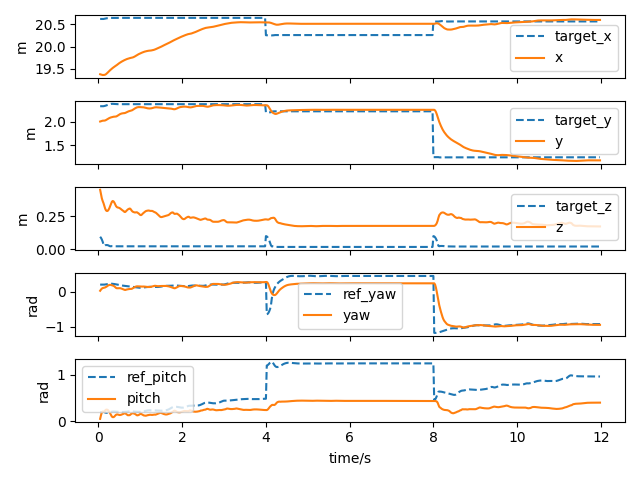
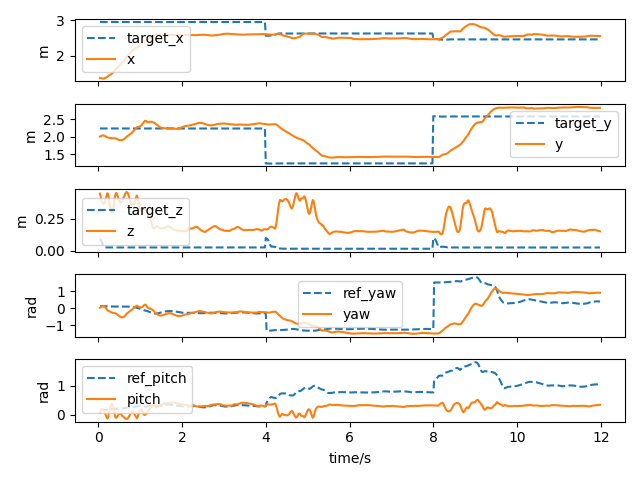
feat: try fitting real data and highlevel output

diff --git a/legged_gym/legged_gym/envs/go1g/go1gbox.py b/legged_gym/legged_gym/envs/go1g/go1gbox.py
@@ -100,7 +100,7 @@ class Go1GB(BaseTask):
         self.use_box = True
         self._parse_cfg(self.cfg)
         super().__init__(self.cfg, sim_params, physics_engine, sim_device, headless)  # calls create_sim
-        self.num_dummy_dof = cfg.env.num_dummy_dof  # used only in simulation
+        self.num_dummy_dof = cfg.env.num_dummy_dof  # 1dof in gripper
 
         self.resize_transform = torchvision.transforms.Resize((self.cfg.depth.resized[1], self.cfg.depth.resized[0]), 
                                                               interpolation=torchvision.transforms.InterpolationMode.BICUBIC)
@@ -171,7 +171,7 @@ class Go1GB(BaseTask):
         else:
             self.extras["depth"] = None
         
-        return self.lowlevel_obs_buf, self.privileged_obs_buf, self.rew_buf, self.reset_buf, self.extras
+        return self.obs_buf, self.privileged_obs_buf, self.rew_buf, self.reset_buf, self.extras
 
     def get_history_observations(self):
         return self.obs_history_buf
@@ -236,7 +236,7 @@ class Go1GB(BaseTask):
 
         norm = torch.norm(self.target_pos_rel, dim=-1, keepdim=True)
         target_vec_norm = self.target_pos_rel / (norm + 1e-5)
-        target_vec_xz_norm = torch.norm(target_vec_norm[:,[0,2]], dim=-1)  # projection on the xz plane
+        # target_vec_xz_norm = torch.norm(target_vec_norm[:,[0,2]], dim=-1)  # projection on the xz plane
         self.target_pitch = -torch.atan2(target_vec_norm[:, 2], target_vec_norm[:, 0])
         # self.target_yaw = torch.atan2(target_vec_norm[:, 1], target_vec_xz_norm) + self.cfg.asset.gripper_pitch_offset
         self.target_yaw = torch.atan2(target_vec_norm[:, 1], target_vec_norm[:, 0]) + self.cfg.asset.gripper_pitch_offset
@@ -269,11 +269,14 @@ class Go1GB(BaseTask):
         self.roll, self.pitch, self.yaw = euler_from_quaternion(self.base_quat)
         hand_pos = self.rigid_body_states[:, self.finger_indices, :3]
         self.ee_pos = (self.rigid_body_states[:, self.finger_indices[0], :3]+self.rigid_body_states[:, self.finger_indices[1], :3])/2
+        # self.ee_pos = self.rigid_body_states[:, self.grasp_point_index, :3]
 
         if verbose:
+            print(f"{self.grasp_point_index}")
             print(f"box pose:{self.box_states[:,:3]}")
             print(f"hand pose:{hand_pos}")        
             print(f"ee pose:{self.ee_pos}")        
+            print(f"ee pose0:{self.ee_pos0}")        
 
         contact = torch.norm(self.contact_forces[:, self.feet_indices], dim=-1) > 2.
         self.contact_filt = torch.logical_or(contact, self.last_contacts) 
@@ -318,7 +321,7 @@ class Go1GB(BaseTask):
         return vec[:, [1, 0, 3, 2]]
 
     def reindex(self, vec):
-        if self.num_actions==13:
+        if self.num_lowlevel_actions==13:
             return vec[:, [3, 4, 5, 0, 1, 2, 9, 10, 11, 6, 7, 8, 12]]
         else:
             return vec[:, [3, 4, 5, 0, 1, 2, 9, 10, 11, 6, 7, 8]]
@@ -423,17 +426,22 @@ class Go1GB(BaseTask):
         Computes observations
         """
         imu_obs = torch.stack((self.roll, self.pitch), dim=1)
-        if self.global_counter % 5 == 0:
-            self.delta_yaw = self.target_yaw - self.yaw
-            self.delta_pitch = self.target_pitch - self.pitch
-            self.delta_position = self.base_target_pos
-
         # if self.global_counter % 5 == 0:
-        #     self.delta_yaw = self.actions[:,0]  # self.target_yaw - self.yaw
-        #     self.delta_pitch = self.actions[:,1]  # self.target_pitch - self.pitch
-        #     self.delta_position = self.actions[:,2:5]  # self.base_target_pos
-        #     self.close_cmd = self.actions[:,-1]
+        #     self.delta_yaw = self.target_yaw - self.yaw
+        #     self.delta_pitch = self.target_pitch - self.pitch
+        #     self.delta_position = self.base_target_pos
 
+        if self.global_counter % 5 == 0:
+            self.delta_yaw = self.actions[:,0]  # self.target_yaw - self.yaw
+            self.delta_pitch = self.actions[:,1]  # self.target_pitch - self.pitch
+            self.delta_position = self.actions[:,2:5]  # self.base_target_pos
+            self.close_cmd = self.actions[:,-1]
+
+        # real_delta_yaw = self.target_yaw - self.yaw
+        # real_delta_pitch = self.target_pitch - self.pitch
+        # real_delta_position = self.base_target_pos
+        # real_delta_position[:,0] = 3.0
+            
         # replace real obs to the output of the highlevel policy
         lowlevel_obs_buf = torch.cat((#skill_vector, 
                             self.base_ang_vel  * self.obs_scales.ang_vel,   #3
@@ -441,7 +449,7 @@ class Go1GB(BaseTask):
                             self.delta_yaw[:, None],    #1
                             self.delta_pitch[:, None],   #1
                             self.delta_position,  #3 local
-                            self.commands[:,-1:],  #1
+                            self.close_cmd[:,None],  #1
                             (self.env_class != 17).float()[:, None], #1
                             (self.env_class == 17).float()[:, None], #1
                             self.reindex((self.dof_pos - self.default_dof_pos_all) * self.obs_scales.dof_pos),  #13 contain no passive dof
@@ -478,25 +486,16 @@ class Go1GB(BaseTask):
         Computes observations
         """
         imu_obs = torch.stack((self.roll, self.pitch), dim=1)
-        if self.global_counter % 5 == 0:  # = actions[:,something] wqwqwq
-            self.delta_yaw = self.target_yaw - self.yaw
-            self.delta_pitch = self.target_pitch - self.pitch
-            self.delta_position = self.base_target_pos
+        self.real_delta_yaw = self.target_yaw - self.yaw
+        self.real_delta_pitch = self.target_pitch - self.pitch
+        self.real_delta_position = self.base_target_pos
 
         # replace real obs to the output of the highlevel policy
-        obs_buf = torch.cat((#skill_vector, 
-                            self.base_ang_vel  * self.obs_scales.ang_vel,   #3
-                            imu_obs,    #2
-                            self.delta_yaw[:, None],    #1
-                            self.delta_pitch[:, None],   #1
-                            self.delta_position,  #3 local
-                            self.commands[:,-1:],  #1
-                            (self.env_class != 17).float()[:, None], #1
-                            (self.env_class == 17).float()[:, None], #1
-                            self.reindex((self.dof_pos - self.default_dof_pos_all) * self.obs_scales.dof_pos),  #13 contain no passive dof
-                            self.reindex(self.dof_vel * self.obs_scales.dof_vel),   #13
-                            self.reindex(self.lowlevel_action_history_buf[:, -1]),   #13
-                            self.reindex_feet(self.contact_filt.float()-0.5),   #4
+        obs_buf = torch.cat((
+                            self.real_delta_yaw[:, None],    #1
+                            self.real_delta_pitch[:, None],   #1
+                            self.real_delta_position,  #3 local
+                            self.action_history_buf[:, -1]  # 6
                             ),dim=-1)
         priv_explicit = torch.cat((self.base_lin_vel * self.obs_scales.lin_vel,
                                    0 * self.base_lin_vel,
@@ -811,7 +810,8 @@ class Go1GB(BaseTask):
         env_cfg.env.num_envs = self.num_envs
         env_cfg.env.create_sim = False
         self.lowlevel_obs_buf = torch.zeros(self.num_envs, env_cfg.env.num_observations, device=self.device, dtype=torch.float)
-
+        self.num_lowlevel_actions = env_cfg.env.num_actions  # 13
+        self.lowlevel_n_proprio = env_cfg.env.n_proprio
         # prepare environment
         env, _ = task_registry.make_env(name=args.task, args=args, env_cfg=env_cfg)
 
@@ -857,13 +857,13 @@ class Go1GB(BaseTask):
         self.extras = {}
         self.gravity_vec = to_torch(get_axis_params(-1., self.up_axis_idx), device=self.device).repeat((self.num_envs, 1))  # contain box
         self.forward_vec = to_torch([1., 0., 0.], device=self.device).repeat((self.num_envs, 1))
-        self.torques = torch.zeros(self.num_envs, self.num_actions+self.num_dummy_dof, dtype=torch.float, device=self.device, requires_grad=False)
-        self.p_gains = torch.zeros(self.num_actions+self.num_dummy_dof, dtype=torch.float, device=self.device, requires_grad=False)
-        self.d_gains = torch.zeros(self.num_actions+self.num_dummy_dof, dtype=torch.float, device=self.device, requires_grad=False)
+        self.torques = torch.zeros(self.num_envs, self.num_lowlevel_actions+self.num_dummy_dof, dtype=torch.float, device=self.device, requires_grad=False)
+        self.p_gains = torch.zeros(self.num_lowlevel_actions+self.num_dummy_dof, dtype=torch.float, device=self.device, requires_grad=False)
+        self.d_gains = torch.zeros(self.num_lowlevel_actions+self.num_dummy_dof, dtype=torch.float, device=self.device, requires_grad=False)
         self.actions = torch.zeros(self.num_envs, self.num_actions, dtype=torch.float, device=self.device, requires_grad=False)
-        self.lowlevel_actions = torch.zeros(self.num_envs, self.num_actions, dtype=torch.float, device=self.device, requires_grad=False)
+        self.lowlevel_actions = torch.zeros(self.num_envs, self.num_lowlevel_actions, dtype=torch.float, device=self.device, requires_grad=False)
         self.last_actions = torch.zeros(self.num_envs, self.num_actions, dtype=torch.float, device=self.device, requires_grad=False)
-        self.last_lowlevel_actions = torch.zeros(self.num_envs, self.num_actions, dtype=torch.float, device=self.device, requires_grad=False)        
+        self.last_lowlevel_actions = torch.zeros(self.num_envs, self.num_lowlevel_actions, dtype=torch.float, device=self.device, requires_grad=False)        
         self.last_dof_vel = torch.zeros_like(self.dof_vel)
         self.last_torques = torch.zeros_like(self.torques)
         self.last_root_vel = torch.zeros_like(self.root_states[:, 7:13])
@@ -871,12 +871,12 @@ class Go1GB(BaseTask):
         self.reach_goal_timer = torch.zeros(self.num_envs, dtype=torch.float, device=self.device, requires_grad=False)
 
         str_rng = self.cfg.domain_rand.motor_strength_range
-        self.motor_strength = (str_rng[1] - str_rng[0]) * torch.rand(2, self.num_envs, self.num_actions+self.num_dummy_dof, dtype=torch.float, device=self.device, requires_grad=False) + str_rng[0]
-        if self.cfg.env.history_encoding:
+        self.motor_strength = (str_rng[1] - str_rng[0]) * torch.rand(2, self.num_envs, self.num_lowlevel_actions+self.num_dummy_dof, dtype=torch.float, device=self.device, requires_grad=False) + str_rng[0]
+        if self.cfg.env.history_encoding:  
             self.obs_history_buf = torch.zeros(self.num_envs, self.cfg.env.history_len, self.cfg.env.n_proprio, device=self.device, dtype=torch.float)
-            self.lowlevel_obs_history_buf = torch.zeros(self.num_envs, self.cfg.env.history_len, self.cfg.env.n_proprio, device=self.device, dtype=torch.float)
+            self.lowlevel_obs_history_buf = torch.zeros(self.num_envs, self.cfg.env.history_len, self.lowlevel_n_proprio, device=self.device, dtype=torch.float)
         self.action_history_buf = torch.zeros(self.num_envs, self.cfg.domain_rand.action_buf_len, self.num_actions, device=self.device, dtype=torch.float)
-        self.lowlevel_action_history_buf = torch.zeros(self.num_envs, self.cfg.domain_rand.action_buf_len, self.num_actions, device=self.device, dtype=torch.float)
+        self.lowlevel_action_history_buf = torch.zeros(self.num_envs, self.cfg.domain_rand.action_buf_len, self.num_lowlevel_actions, device=self.device, dtype=torch.float)
         self.contact_buf = torch.zeros(self.num_envs, self.cfg.env.contact_buf_len, 4, device=self.device, dtype=torch.float)
 
         self.commands = torch.zeros(self.num_envs, self.cfg.commands.num_commands, dtype=torch.float, device=self.device, requires_grad=False) # x vel, y vel, yaw vel, heading
@@ -1128,6 +1128,7 @@ class Go1GB(BaseTask):
                 box_pose = gymapi.Transform()
                 box_size = 0.05
                 asset_options = gymapi.AssetOptions()
+                asset_options.density = 300.
                 box_asset = self.gym.create_box(self.sim, box_size, box_size, box_size, asset_options)
                 box_pose.p = gymapi.Vec3(*(to_torch([0,0,0.5], device=self.device)))
                 box_pose.r = gymapi.Quat.from_axis_angle(gymapi.Vec3(0, 0, 1), np.random.uniform(-np.pi, np.pi))
@@ -1154,6 +1155,8 @@ class Go1GB(BaseTask):
         for i in range(len(finger_names)):
             self.finger_indices[i] = self.gym.find_actor_rigid_body_handle(self.envs[0], self.actor_handles[0], finger_names[i])
 
+        self.grasp_point_index = self.gym.find_actor_rigid_body_handle(self.envs[0], self.actor_handles[0], 'gripper_grasp_point_link')
+            
         self.penalised_contact_indices = torch.zeros(len(penalized_contact_names), dtype=torch.long, device=self.device, requires_grad=False)
         for i in range(len(penalized_contact_names)):
             self.penalised_contact_indices[i] = self.gym.find_actor_rigid_body_handle(self.envs[0], self.actor_handles[0], penalized_contact_names[i])
@@ -1391,7 +1394,29 @@ class Go1GB(BaseTask):
         return heights.view(self.num_envs, -1) * self.terrain.cfg.vertical_scale
 
     ################## parkour rewards ##################
-
+    def _reward_pickup_box(self):
+        box_height = self.box_states[:,2]
+        rew = (box_height > 0.03).float()
+        return rew
+    
+    def _reward_box_height(self):
+        box_height = self.box_states[:,2]
+        max_height = self.cfg.rewards.box_max_height
+        clip_height = torch.clip(box_height,0,max_height) 
+        rew = torch.exp(max_height-clip_height) 
+        return rew
+    
+    def _reward_fit_truth(self):
+        if hasattr(self, 'real_delta_position'):
+            fit_error = torch.sum(torch.square(self.real_delta_position - self.delta_position), dim=1)
+            fit_error += torch.square(self.real_delta_pitch - self.delta_pitch)
+            fit_error += torch.square(self.real_delta_yaw - self.delta_yaw)
+            rew = torch.exp(-fit_error)
+        else:
+            rew = 0
+        # print(f"rew_fit_truth:{rew}")
+        return rew
+    
     def _reward_tracking_goal_vel(self):
         norm = torch.norm(self.target_pos_rel[:,:2], dim=-1, keepdim=True)
         target_vec_norm = self.target_pos_rel[:,:2] / (norm + 1e-5)

diff --git a/legged_gym/legged_gym/envs/go1g/go1gb_config.py b/legged_gym/legged_gym/envs/go1g/go1gb_config.py
@@ -75,14 +75,15 @@ class Go1GBRoughCfg( LeggedRobotCfg ):
             'r_finger_joint': 0.0,    # [m]
         }
     class env(LeggedRobotCfg.env):
-        num_envs = 6144
-        num_actions = 13
+        num_envs = 3072 # 6144
+        num_actions = 6
+        # num_lowlevel_actions = 13
         num_dummy_dof = 1
         
         n_scan = 132
         n_priv = 3+3 +3
         n_priv_latent = 4 + 1 + 14 +14
-        n_proprio = 3 + 2 + 2 + 4 + 2 + 13*3 + 4
+        n_proprio = 5+6 #3 + 2 + 2 + 4 + 2 + 13*3 + 4
         history_len = 10
 
         num_observations = n_proprio + n_scan + history_len*n_proprio + n_priv_latent + n_priv #n_scan + n_proprio + n_priv #187 + 47 + 5 + 12 
@@ -118,28 +119,37 @@ class Go1GBRoughCfg( LeggedRobotCfg ):
     class rewards( LeggedRobotCfg.rewards ):
         class scales:
             # tracking rewards
-            tracking_goal_vel = 1.5
+            # tracking_goal_vel = 1.5
             tracking_goal_pos = 1.5
-            tracking_yaw = 0.5  # 0.5
-            tracking_pitch = 0.5  # 0.5
-            tracking_gripper = 0.5
-            # regularization rewards
-            lin_vel_z = -1.0
-            ang_vel_xy = -0.05
-            orientation = -1.
-            dof_acc = -2.5e-7
-            collision = -10.
-            action_rate = -0.1
-            delta_torques = -1.0e-7
-            torques = -0.00001
-            hip_pos = -0.5
-            dof_error = -0.04
-            feet_stumble = -1
-            feet_edge = -1
+            # tracking_yaw = 0.5  # 0.5
+            # tracking_pitch = 0.5  # 0.5
+            # tracking_gripper = 0.5
+
+            # fit ground truth data
+            fit_truth = 0.5
+
+            # pickup rewards
+            pickup_box = 3*0
+            box_height = 2*0
+
+            # # regularization rewards
+            # lin_vel_z = -1.0
+            # ang_vel_xy = -0.05
+            # orientation = -1.
+            # dof_acc = -2.5e-7
+            # collision = -10.
+            # action_rate = -0.1
+            # delta_torques = -1.0e-7
+            # torques = -0.00001
+            # hip_pos = -0.5
+            # dof_error = -0.04
+            # feet_stumble = -1
+            # feet_edge = -1
 
         tracking_sigma = 0.2 # tracking reward = exp(-error^2/sigma)  0.2
         soft_dof_pos_limit = 0.9
         base_height_target = 0.25
+        box_max_height = 0.4
         # class scales( LeggedRobotCfg.rewards.scales ):
             # torques = -0.0002
             # dof_pos_limits = -10.0

diff --git a/legged_gym/legged_gym/scripts/play.py b/legged_gym/legged_gym/scripts/play.py
@@ -186,15 +186,23 @@ def play(args):
         state_hist.append(cur_state)
         ref = [env.target_yaw[env.lookat_id].tolist(),env.target_pitch[env.lookat_id].tolist()]
         ref_hist.append(ref)
+
+
+        real_delta_yaw = env.target_yaw[env.lookat_id].tolist() - env.yaw[env.lookat_id].tolist()
+        real_delta_pitch = env.target_pitch[env.lookat_id].tolist() - env.pitch[env.lookat_id].tolist()
+
         print("----------\ntime:", cur_time, 
-              "\ntarget_pos:", env.target_position[env.lookat_id, :].tolist(),
-              "\nee_pos:", env.ee_pos[env.lookat_id, :].tolist(),
-              "\nbase_pos:", env.root_states[env.lookat_id, :3].tolist(),
-              "\nyaw:", env.yaw[env.lookat_id].tolist(), 
-              "\ntarget_yaw:", env.target_yaw[env.lookat_id].tolist(), 
-              "\npitch:", env.pitch[env.lookat_id].tolist(),
-              "\ntarget_pitch:", env.target_pitch[env.lookat_id].tolist(),
-              "\ngripper open:", env.commands[env.lookat_id,-1]<0)
+              "\nreal_delta_pos:", env.base_target_pos[env.lookat_id, :].tolist(),
+              "\nhighlevel_pos:", env.actions[env.lookat_id, 2:5].tolist(),
+              "\nreal_delta_yaw:", real_delta_yaw, 
+              "\nhighlevel_yaw:", env.actions[env.lookat_id, 0].tolist(),
+              "\nreal_delta_pitch:", real_delta_pitch,
+              "\nhighlevel_pitch:", env.actions[env.lookat_id, 1].tolist(),
+              "\nhighlevel_gripper open:", env.actions[env.lookat_id, 5]<0
+              )
+        
+            #     "\nee_pos:", env.ee_pos[env.lookat_id, :].tolist(),
+            #   "\nbase_pos:", env.root_states[env.lookat_id, :3].tolist(),
         
         id = env.lookat_id
         if cur_time == 0 or i == 3*int(env.max_episode_length)-1:

diff --git a/legged_gym/legged_gym/envs/go1g/go1g.py b/legged_gym/legged_gym/envs/go1g/go1g.py
@@ -258,6 +258,7 @@ class Go1G(BaseTask):
         self.roll, self.pitch, self.yaw = euler_from_quaternion(self.base_quat)
         hand_pos = self.rigid_body_states[:, self.finger_indices, :3]
         self.ee_pos = (self.rigid_body_states[:, self.finger_indices[0], :3]+self.rigid_body_states[:, self.finger_indices[1], :3])/2
+        # self.ee_pos = self.rigid_body_states[:, self.grasp_point_index, :3]
 
         if verbose:
             print(f"box pose:{self.box_states[:,:3]}")
@@ -1062,6 +1063,8 @@ class Go1G(BaseTask):
         self.finger_indices = torch.zeros(len(finger_names), dtype=torch.long, device=self.device, requires_grad=False)
         for i in range(len(finger_names)):
             self.finger_indices[i] = self.gym.find_actor_rigid_body_handle(self.envs[0], self.actor_handles[0], finger_names[i])
+        
+        self.grasp_point_index = self.gym.find_actor_rigid_body_handle(self.envs[0], self.actor_handles[0], 'gripper_grasp_point_link')
 
         self.penalised_contact_indices = torch.zeros(len(penalized_contact_names), dtype=torch.long, device=self.device, requires_grad=False)
         for i in range(len(penalized_contact_names)):

diff --git a/TODO.md b/TODO.md
@@ -64,20 +64,23 @@ low-level policy (v2, blind, gripper position command)
 + 1. load policy
     based on play
     watch 000-10 name problem
-2. reward for picking up
-    tbd
++ 2. reward for picking up
+    move
+    height
 3. observation
-    box state
-    robot state
+    real ref
     action_history_buf
-4. update action freq:
++ 4. update action freq:
     just use the lowlevel obs freq
 + 5. action space(cat observation space for lowlevel):     
     delta_yaw
     delta_pitch
     delta_position
     gripper state
-6. step and lowlevel step
+
+    num_actions stuff
++ 6. step and lowlevel step
     action clip
+
 self.commands seems useless
 lowlevel things dimensions
